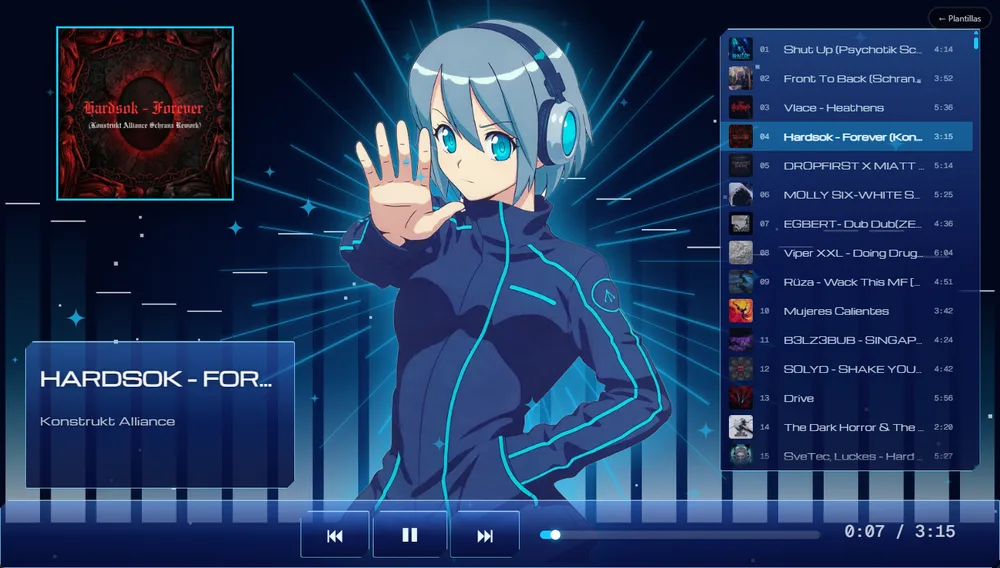
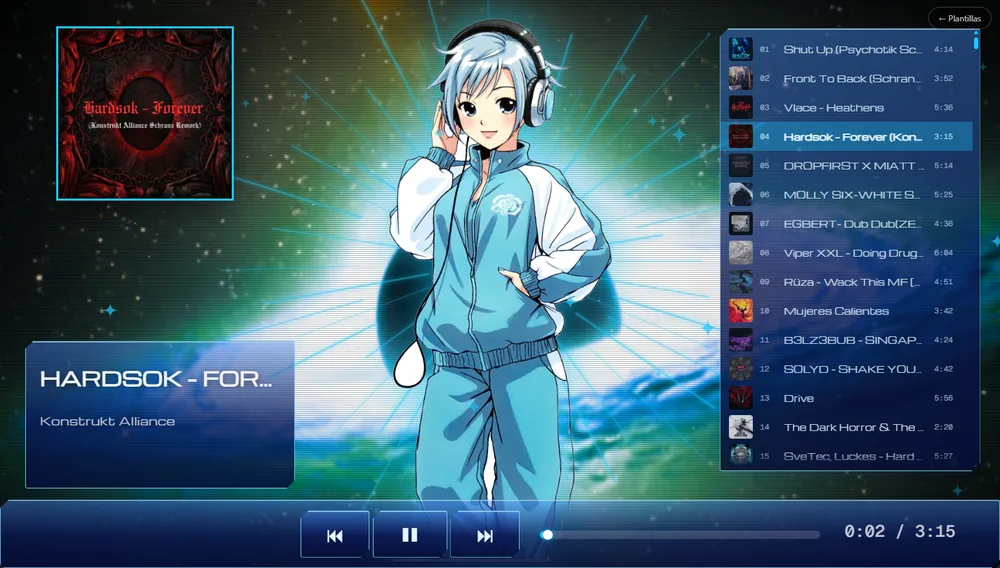
Anime PS2 con 4 personajes; agujero negro retro como fondo de la plantilla 2000s

diff --git a/web/dosmil.html b/web/dosmil.html
@@ -14,8 +14,7 @@
     --brilloLcd: 0 0 6px var(--tinta); --p: 0%; --giro: 81deg; }
   * { box-sizing: border-box; }
   html, body { margin: 0; height: 100%; overflow: hidden; background: #000; font-family: "Michroma", Tahoma, sans-serif; }
-  /* El centro del túnel deslumbraba: se baja ~20 % el brillo y se oscurece el núcleo */
-  #tunel { position: fixed; inset: 0; width: 100%; height: 100%; filter: brightness(.8); }
+  #tunel { position: fixed; inset: 0; width: 100%; height: 100%; }
   #nucleoOscuro { position: fixed; inset: 0; pointer-events: none; background: radial-gradient(circle at 50% 42%, rgba(0,0,0,.32), transparent 55%); }
   #titulo { display: none; }   /* el título se muestra en la marquesina */
 
@@ -158,18 +157,17 @@
 
 <script src="propiedades.js"></script>
 <script src="nucleo.js"></script>
-<script src="tunel.js"></script>
+<script src="agujero.js"></script>
 <script>
 "use strict";
-document.getElementById("tunel").style.filter = `brightness(${Props.extra("dosmil", "tunel") / 100})`;
+const agujero = crearAgujero(document.getElementById("tunel"));
 const $ = (id) => document.getElementById(id);
 const raiz = document.documentElement.style;
 const SKINS = {
-  "Plata":     { metal: "#c3c9d3", grabado: "#3b4250", lcd: "#06131f", tinta: "#7fdcff", acento: "#3fa9ff", tunel: PALETAS.oceano },
-  "Grafito":   { metal: "#3b3e46", grabado: "#aeb2bb", lcd: "#140a00", tinta: "#ffb000", acento: "#ff6a00", tunel: PALETAS.fuego },
-  "LCD verde": { metal: "#b4bba6", grabado: "#3d4535", lcd: "#a3b585", tinta: "#16220e", acento: "#5bd13a",
-                 tunel: (i, t) => 75 + 35 * (0.5 + 0.5 * Math.sin(t * 0.3 + i * 0.25)) },
-  "Azul":      { metal: "#2b4fae", grabado: "#d2deff", lcd: "#000a18", tinta: "#e6f3ff", acento: "#00e5ff", tunel: PALETAS.arcoiris },
+  "Plata":     { metal: "#c3c9d3", grabado: "#3b4250", lcd: "#06131f", tinta: "#7fdcff", acento: "#3fa9ff", tono: 180 },
+  "Grafito":   { metal: "#3b3e46", grabado: "#aeb2bb", lcd: "#140a00", tinta: "#ffb000", acento: "#ff6a00", tono: 0 },
+  "LCD verde": { metal: "#b4bba6", grabado: "#3d4535", lcd: "#a3b585", tinta: "#16220e", acento: "#5bd13a", tono: 95 },
+  "Azul":      { metal: "#2b4fae", grabado: "#d2deff", lcd: "#000a18", tinta: "#e6f3ff", acento: "#00e5ff", tono: 200 },
 };
 const rgb = (h) => [1, 3, 5].map(i => parseInt(h.slice(i, i + 2), 16));
 const luz = ([r, g, b]) => (0.299 * r + 0.587 * g + 0.114 * b) / 255;
@@ -178,6 +176,7 @@ let skin = SKINS.Plata;
 function usarSkin(nombre) {
   skin = SKINS[nombre] || SKINS.Plata;
   for (const k of ["metal", "grabado", "lcd", "tinta", "acento"]) raiz.setProperty("--" + k, skin[k]);
+  agujero.tono(skin.tono, Props.extra("dosmil", "tunel"));
   // LCD de fondo oscuro: la tinta brilla. LCD claro (verde): tinta opaca, sin brillo.
   raiz.setProperty("--brilloLcd", luz(rgb(skin.tinta)) > luz(rgb(skin.lcd)) ? "0 0 6px var(--tinta)" : "none");
   document.querySelectorAll("#skins button").forEach(b => b.classList.toggle("elegida", b.dataset.s === nombre));
@@ -270,12 +269,12 @@ perilla.addEventListener("keydown", (e) => {
   if (d) { e.preventDefault(); ponerVol(+vol.value + d); }
 });
 
-// ---- Cada cuadro: túnel de fondo, espectro del LCD, reloj y estado ----
+// ---- Cada cuadro: agujero negro de fondo, espectro del LCD, reloj y estado ----
 const esp = $("espectro"), eg = esp.getContext("2d"), BARRAS = 20, SEG = 21, picos = new Array(BARRAS).fill(0);
 const dosCifras = (s) => { s = isFinite(s) && s > 0 ? s : 0; return `${String(Math.floor(s / 60)).padStart(2, "0")}:${String(Math.floor(s % 60)).padStart(2, "0")}`; };
 R.cadaCuadro((t) => {
   const d = R.espectro();
-  dibujarTunel($("tunel"), d, R.energia(d, 1, 8), R.energia(d, 60, 200), t, skin.tunel);
+  agujero.dibujar(t, R.energia(d, 1, 8));
 
   const sonando = $("bPlay").textContent === "❚❚";
   document.body.classList.toggle("sonando", sonando);

diff --git a/web/plantillas-propias.js b/web/plantillas-propias.js
@@ -51,7 +51,7 @@ const Propias = (() => {
       fondo: { tipo: "burbujas", color: "#123a00", brillo: 100 }, estilo: { panel: "gel", acento: "#9be22a", fuente: "Fredoka" },
       piezas: () => armar([["cabeza", [24, 2, 42, 95]], ["lista", [70, 5, 27, 82]], ["volumen", [34, 95, 24, 3.5]]]) },
     dosmil: { nombre: "2000s", reglas: { requeridas: ["equipo"], nota: "El equipo de metal es el reproductor: se puede mover, agrandar y cambiar de skin. Trae pantalla LCD, botones, perilla y barra, así que no se agregan sueltos." },
-      fondo: { tipo: "tunel", color: "#000000", brillo: 80 }, estilo: { panel: "metal", acento: "#3fa9ff", fuente: "Michroma" },
+      fondo: { tipo: "agujero", color: "#000000", tono: 180, brillo: 90 }, estilo: { panel: "metal", acento: "#3fa9ff", fuente: "Michroma" },
       piezas: () => armar([["lista", [72, 3, 26, 58]], ["equipo", [5, 66, 67, 31]]]) },
     ambiente: { nombre: "Ambiente", reglas: { requeridas: ["titulo", "botones", "barra"], nota: COMUN },
       fondo: { tipo: "caratula", color: "#08080a", desenfoque: 70, brillo: 100 }, estilo: { panel: "liso", acento: "#9aa4b8", acentoAuto: true, fuente: "Geist" },
@@ -64,9 +64,13 @@ const Propias = (() => {
         ["titulo", [3, 49, 40, 5], { tam: 90 }], ["artista", [3, 54, 40, 3]], ["lista", [72, 4, 26, 82]], ["botones", [3, 91, 20, 8]], ["barra", [26, 94.2, 46, 2.4]],
         ["tiempo", [75, 91.5, 10, 6]], ["volumen", [86, 92, 11, 5]]]) },
   };
-  INCLUIDAS.anime = { nombre: "Anime PS2", reglas: { requeridas: ["titulo", "botones", "barra"], nota: COMUN },
-      fondo: { tipo: "columnas", color: "#02071c", color2: "#0b2f7a", brillo: 100 }, estilo: { panel: "ps2", acento: "#19c8ff", fuente: "Michroma" },
-      piezas: () => armar([["efecto", [22, 0, 56, 92], { efecto: "lineas" }], ["imagen", [27, 3, 46, 96], { imagen: "img/anime/personaje.webp", reaccion: "golpe", aura: true, aberracion: true }],
+  // Anime PS2: cada variante es otro personaje con su propio color de acento
+  const ANIME = { Cian: ["cian", "#19c8ff"], Rosa: ["rosa", "#ff7ac8"], Gotica: ["gotica", "#e0233c"], Violeta: ["violeta", "#9b6bff"] };
+  const animeActual = () => { let v = ""; try { v = localStorage.getItem("variante-anime") || ""; } catch (e) {} return ANIME[v] || ANIME.Cian; };
+  INCLUIDAS.anime = { nombre: "Anime PS2", reglas: { requeridas: ["titulo", "botones", "barra"], nota: COMUN }, VARIANTES: ANIME,
+      fondo: { tipo: "columnas", color: "#02071c", color2: "#0b2f7a", brillo: 100 },
+      get estilo() { return { panel: "ps2", acento: animeActual()[1], fuente: "Michroma" }; },
+      piezas: () => armar([["efecto", [22, 0, 56, 92], { efecto: "lineas" }], ["imagen", [27, 3, 46, 96], { imagen: `img/anime/${animeActual()[0]}.webp`, reaccion: "golpe", aura: true, aberracion: true }],
         ["efecto", [0, 0, 100, 100], { efecto: "destellos", sensibilidad: 80 }], ["panel", [2.5, 60, 27, 26]], ["titulo", [4, 63, 24, 7], { tam: 90, mayusculas: true }], ["artista", [4, 72, 24, 4], { tam: 80 }],
         ["caratula", [4, 5, 21, 30], { forma: "cuadrada", borde: true }], ["lista", [72, 5, 26, 78]], ["panel", [0, 88, 100, 12]], ["botones", [30, 89.5, 22, 9]], ["barra", [54, 93, 28, 2.4]], ["tiempo", [84, 91, 12, 5]]]) };
   function desdeBase(id) {

diff --git a/web/libre.html b/web/libre.html
@@ -25,7 +25,7 @@
   body[data-panel=metal] { --bg: linear-gradient(180deg,#eef1f5,#b1b9c6 55%,#8f97a5); --borde: 1px solid rgba(0,0,0,.55); --rad: 10px; --radp: 14px; --pt: #272c35; --sombra: inset 0 1px 0 rgba(255,255,255,.75), 0 6px 14px rgba(0,0,0,.45); }
   body[data-panel=gel] { --bg: linear-gradient(180deg,rgba(255,255,255,.78),rgba(255,255,255,.14) 50%,transparent 52%), var(--acento); --borde: 1px solid rgba(0,0,0,.35); --rad: 999px; --radp: 28px; --pt: #0e1f08; --sombra: inset 0 -3px 6px rgba(0,0,0,.25), 0 4px 10px rgba(0,0,0,.45); }
   body[data-panel=pixel] { --bg: #1a1620; --borde: 3px solid var(--acento); --rad: 0; --radp: 0; --pt: #f3f3f5; --sombra: none; }
-  body[data-panel=ps2] { --bg: linear-gradient(180deg,rgba(70,140,255,.42),rgba(10,24,84,.78) 55%,rgba(6,14,56,.85)); --borde: 1.5px solid rgba(130,225,255,.8); --rad: 3px; --radp: 3px; --pt: #e8f6ff; --sombra: inset 0 1px 0 rgba(255,255,255,.55), 0 0 18px rgba(40,170,255,.35); }
+  body[data-panel=ps2] { --bg: linear-gradient(180deg,color-mix(in srgb, var(--acento) 45%, transparent),color-mix(in srgb, var(--acento) 22%, rgba(6,8,30,.85)) 55%,rgba(6,8,30,.88)); --borde: 1.5px solid color-mix(in srgb, var(--acento) 70%, #fff); --rad: 3px; --radp: 3px; --pt: #e8f6ff; --sombra: inset 0 1px 0 rgba(255,255,255,.55), 0 0 18px color-mix(in srgb, var(--acento) 40%, transparent); }
   body[data-panel=ps2] .caja, body[data-panel=ps2] .bt { clip-path: polygon(12px 0,100% 0,100% calc(100% - 12px),calc(100% - 12px) 100%,0 100%,0 12px); }
   body[data-panel=liso] { --bg: rgba(14,14,18,.86); --borde: 1px solid #2c2c36; --rad: 8px; --radp: 10px; --pt: #f3f3f5; --sombra: none; }
   .caja { background: var(--bg); border: var(--borde); border-radius: var(--radp); box-shadow: var(--sombra); width: 100%; height: 100%; color: var(--pt); }
@@ -84,6 +84,7 @@
 <script src="esquema.js"></script>
 <script src="plantillas-propias.js"></script>
 <script src="tunel.js"></script>
+<script src="agujero.js"></script>
 <script src="haz.js"></script>
 <script src="nucleo.js"></script>
 <script src="modulos.js"></script>
@@ -168,6 +169,10 @@ function fondo() {
       g.fillStyle = "rgba(255,255,255,.7)";
       ps.forEach(q => { q[1] -= .0006 * q[2] * (1 + GOLPE * 6); if (q[1] < -.02) { q[1] = 1.02; q[0] = Math.random(); } const z = 2 + q[2] * 3; g.fillRect(q[0] * w, q[1] * h, z, z); });
     }); return;
+  }
+  if (tipo === "agujero") {
+    const lienzo = document.createElement("canvas"); c.appendChild(lienzo); const a = crearAgujero(lienzo); a.tono(fv("tono"));
+    R.cadaCuadro((t) => a.dibujar(t, R.energia(R.espectro(), 1, 8))); return;
   }
   if (tipo === "caratula") {
     capa(fv("color")); const d = capa("none"); d.style.cssText += `;inset:-12%;width:124%;height:124%;filter:blur(${fv("desenfoque")}px) saturate(1.4) brightness(.45)`;

diff --git a/web/agujero.js b/web/agujero.js
@@ -1,0 +1,35 @@
+// Agujero negro retro (fondo de la plantilla 2000s y opción "Agujero negro" de las plantillas propias).
+// Es un CG pintado al estilo de los 2000 dibujado a baja resolución (se ve suave, como en una tele de tubo):
+// gira lento, se acerca con el bajo, el borde del agujero destella con los golpes, y lleva líneas de escaneo.
+// crearAgujero(canvas) → { tono(grados, brillo%), dibujar(t, bajo) }
+"use strict";
+function crearAgujero(canvas) {
+  const W = 640, H = 360, CX = W * .49, CY = H * .5;
+  canvas.width = W; canvas.height = H;
+  const img = new Image(); img.src = "img/fondos/agujero.webp";
+  const es = Array.from({ length: 70 }, () => [Math.random(), Math.random(), Math.random()]);
+  // Líneas de escaneo y viñeta: se dibujan una vez y se pegan encima cada cuadro
+  const crt = document.createElement("canvas"); crt.width = W; crt.height = H;
+  const cg = crt.getContext("2d"); cg.fillStyle = "rgba(0,0,0,.32)"; for (let y = 0; y < H; y += 2) cg.fillRect(0, y, W, 1);
+  const vin = cg.createRadialGradient(CX, CY, H * .35, CX, CY, W * .62); vin.addColorStop(0, "rgba(0,0,0,0)"); vin.addColorStop(1, "rgba(0,0,0,.7)");
+  cg.fillStyle = vin; cg.fillRect(0, 0, W, H);
+  let zoom = 1.15, prom = 0, golpe = 0;
+  return {
+    tono(grados, brillo = 100) { canvas.style.filter = `hue-rotate(${grados}deg) brightness(${brillo / 100})`; },
+    dibujar(t, bajo) {
+      if (!img.complete || !img.naturalWidth) return;
+      prom = prom * .94 + bajo * .06; if (bajo > prom * 1.22 + .07) golpe = 1; golpe *= .86;
+      const g = canvas.getContext("2d");
+      zoom += ((1.16 + bajo * .1 + golpe * .04) - zoom) * .12;
+      g.save(); g.translate(CX, CY); g.rotate(t * .012); g.scale(zoom, zoom); g.drawImage(img, -CX * 1.08, -CY * 1.08, W * 1.08, H * 1.08); g.restore();
+      g.globalCompositeOperation = "lighter";
+      const r = H * (.2 + bajo * .08), halo = g.createRadialGradient(CX, CY, r * .55, CX, CY, r * 1.6);
+      halo.addColorStop(0, "rgba(0,0,0,0)"); halo.addColorStop(.35, `rgba(255,170,90,${.1 + bajo * .3 + golpe * .25})`); halo.addColorStop(1, "rgba(0,0,0,0)");
+      g.fillStyle = halo; g.fillRect(0, 0, W, H);
+      g.fillStyle = "#fff";
+      es.forEach(e => { g.globalAlpha = (.3 + .7 * Math.abs(Math.sin(t * (1 + e[2] * 2) + e[0] * 40))) * (.4 + golpe * .6); g.fillRect(Math.round(e[0] * W), Math.round(e[1] * H), 1, 1); });
+      g.globalAlpha = 1; g.globalCompositeOperation = "source-over";
+      g.drawImage(crt, 0, 0);
+    },
+  };
+}

diff --git a/web/index.html b/web/index.html
@@ -151,7 +151,7 @@ const PLANTILLAS = [
     grupos: ["Y2K", "Gel"].map(c => ({ titulo: `Cuerpo ${c}`, items: [["Lima", "#9be22a"], ["Chicle", "#ff7ad9"], ["Cielo", "#6cc8ff"], ["Mandarina", "#ff9a2a"], ["Cromo", "#c9d3dc"]]
       .map(([n, col]) => v(`${c} · ${n}`, col, `headspace-${c.toLowerCase()}-${n.toLowerCase()}`, { cuerpo: c, color2: n })) })) },
   { id: "dosmil", nombre: "2000s", pagina: "dosmil.html", predeterminada: "Plata",
-    desc: "Reproductor de metal con pantalla LCD, perilla de volumen y playlist, sobre un túnel psicodélico.",
+    desc: "Reproductor de metal con pantalla LCD, perilla de volumen y playlist, sobre un agujero negro retro que gira y late con el bajo.",
     guardar: (x) => ({ "skin-2000s": x.nombre }),
     grupos: [{ titulo: "Skin", items: [v("Plata", "#c3c9d3", "dosmil-plata"), v("Grafito", "#4a4e58", "dosmil-grafito"), v("LCD verde", "#b4bba6", "dosmil-lcd-verde"), v("Azul", "#2b4fae", "dosmil-azul")] }] },
   { id: "ambiente", nombre: "Ambiente", pagina: "ambiente.html", predeterminada: "Carátula",
@@ -159,9 +159,9 @@ const PLANTILLAS = [
     guardar: (x) => ({ "tema-ambiente": x.nombre }),
     grupos: [{ titulo: "Colores", items: [v("Carátula", "#9aa4b8", "ambiente-caratula"), v("Noche", "#7896ff", "ambiente-noche"), v("Atardecer", "#ff8c5a", "ambiente-atardecer"), v("Bosque", "#8ce696", "ambiente-bosque"), v("Mono", "#ebebeb", "ambiente-mono")] }] },
   { id: "anime", nombre: "Anime PS2", pagina: "libre.html?plantilla=anime", predeterminada: "Cian",
-    desc: "Estilo consola de los 2000: columnas de luz, paneles azules y una ilustración anime que golpea, brilla y lanza líneas de velocidad con el bajo.",
-    guardar: () => ({}),
-    grupos: [{ titulo: "Color", items: [v("Cian", "#19c8ff", "anime-cian")] }] },
+    desc: "Carátula de juego de PS2: una chica distinta por variante, con su color, sobre columnas de luz de consola, líneas de velocidad y paneles que toman su color.",
+    guardar: (x) => ({ "variante-anime": x.clave }),
+    grupos: [{ titulo: "Personaje", items: [["Cian", "Audífonos", "#19c8ff"], ["Rosa", "Androide", "#ff7ac8"], ["Gotica", "Gótica", "#e0233c"], ["Violeta", "Colegiala", "#9b6bff"]].map(([k, n, col]) => v(n, col, `anime-${k.toLowerCase()}`, { clave: k })) }] },
   { id: "pixel", nombre: "Pixel", pagina: "pixel.html", predeterminada: "Sangre",
     desc: "8 bits: espectro en bloques y carátula pixelada, con paletas de color a elegir.",
     guardar: (x) => ({ "paleta-pixel": x.nombre }),

diff --git a/web/esquema.js b/web/esquema.js
@@ -3,13 +3,14 @@
 // Debe seguir siendo JSON válido después de "const ESQUEMA = " (comillas dobles, sin comentarios dentro).
 // Cada opción: { "t": "enum"|"num"|"bool"|"color"|"imagen", "n": etiqueta, "v": {valor: etiqueta}, "min", "max", "def", "u": unidad, "vacio": true }
 const ESQUEMA = {
-  "fondos": { "haz": "Haz de luz", "tunel": "Túnel psicodélico", "burbujas": "Burbujas", "luces": "Luces suaves", "estrellas": "Estrellas de píxel", "caratula": "Carátula desenfocada", "degradado": "Degradado", "color": "Color liso", "imagen": "Imagen propia", "columnas": "Columnas de luz (PS2)" },
+  "fondos": { "haz": "Haz de luz", "tunel": "Túnel psicodélico", "burbujas": "Burbujas", "luces": "Luces suaves", "estrellas": "Estrellas de píxel", "caratula": "Carátula desenfocada", "degradado": "Degradado", "color": "Color liso", "imagen": "Imagen propia", "columnas": "Columnas de luz (PS2)", "agujero": "Agujero negro (retro)" },
   "fondo": {
     "color": { "t": "color", "n": "Color de base", "def": "#08080a" },
     "color2": { "t": "color", "n": "Segundo color (degradado)", "def": "#2a1030" },
     "angulo": { "t": "num", "n": "Ángulo del degradado", "min": 0, "max": 360, "def": 160, "u": "°" },
     "desenfoque": { "t": "num", "n": "Desenfoque (carátula)", "min": 10, "max": 140, "def": 70, "u": " px" },
     "brillo": { "t": "num", "n": "Brillo", "min": 20, "max": 130, "def": 100, "u": " %" },
+    "tono": { "t": "num", "n": "Tono (agujero negro)", "min": -180, "max": 180, "def": 0, "u": "°" },
     "imagen": { "t": "imagen" }
   },
   "estilo": {
@@ -81,6 +82,6 @@ const ESQUEMA = {
     "opacidad": { "t": "num", "n": "Opacidad", "min": 10, "max": 100, "def": 100, "u": " %" }
   },
   "bases": ["liquido", "headspace", "dosmil", "ambiente", "pixel", "anime"],
-  "imagenesIncluidas": ["img/anime/personaje.webp"],
+  "imagenesIncluidas": ["img/anime/cian.webp", "img/anime/rosa.webp", "img/anime/gotica.webp", "img/anime/violeta.webp"],
   "maxPiezas": 30
 };

diff --git a/web/propiedades.js b/web/propiedades.js
@@ -13,7 +13,7 @@ const Props = (() => {
   const EXTRAS = {
     liquido: [{ id: "deformacion", nombre: "Fuerza de la deformación del vidrio", min: 0, max: 140, def: 70, unidad: "" }],
     headspace: [{ id: "burbujas", nombre: "Cantidad de burbujas", min: 0, max: 80, def: 34, unidad: "" }],
-    dosmil: [{ id: "tunel", nombre: "Brillo del túnel de fondo", min: 20, max: 130, def: 80, unidad: " %" }],
+    dosmil: [{ id: "tunel", nombre: "Brillo del agujero negro de fondo", min: 20, max: 130, def: 80, unidad: " %" }],
     ambiente: [{ id: "desenfoque", nombre: "Desenfoque del fondo", min: 10, max: 140, def: 70, unidad: " px" }],
     pixel: [{ id: "pixel", nombre: "Tamaño de los píxeles", min: 3, max: 9, def: 5, unidad: " px" }],
   };
